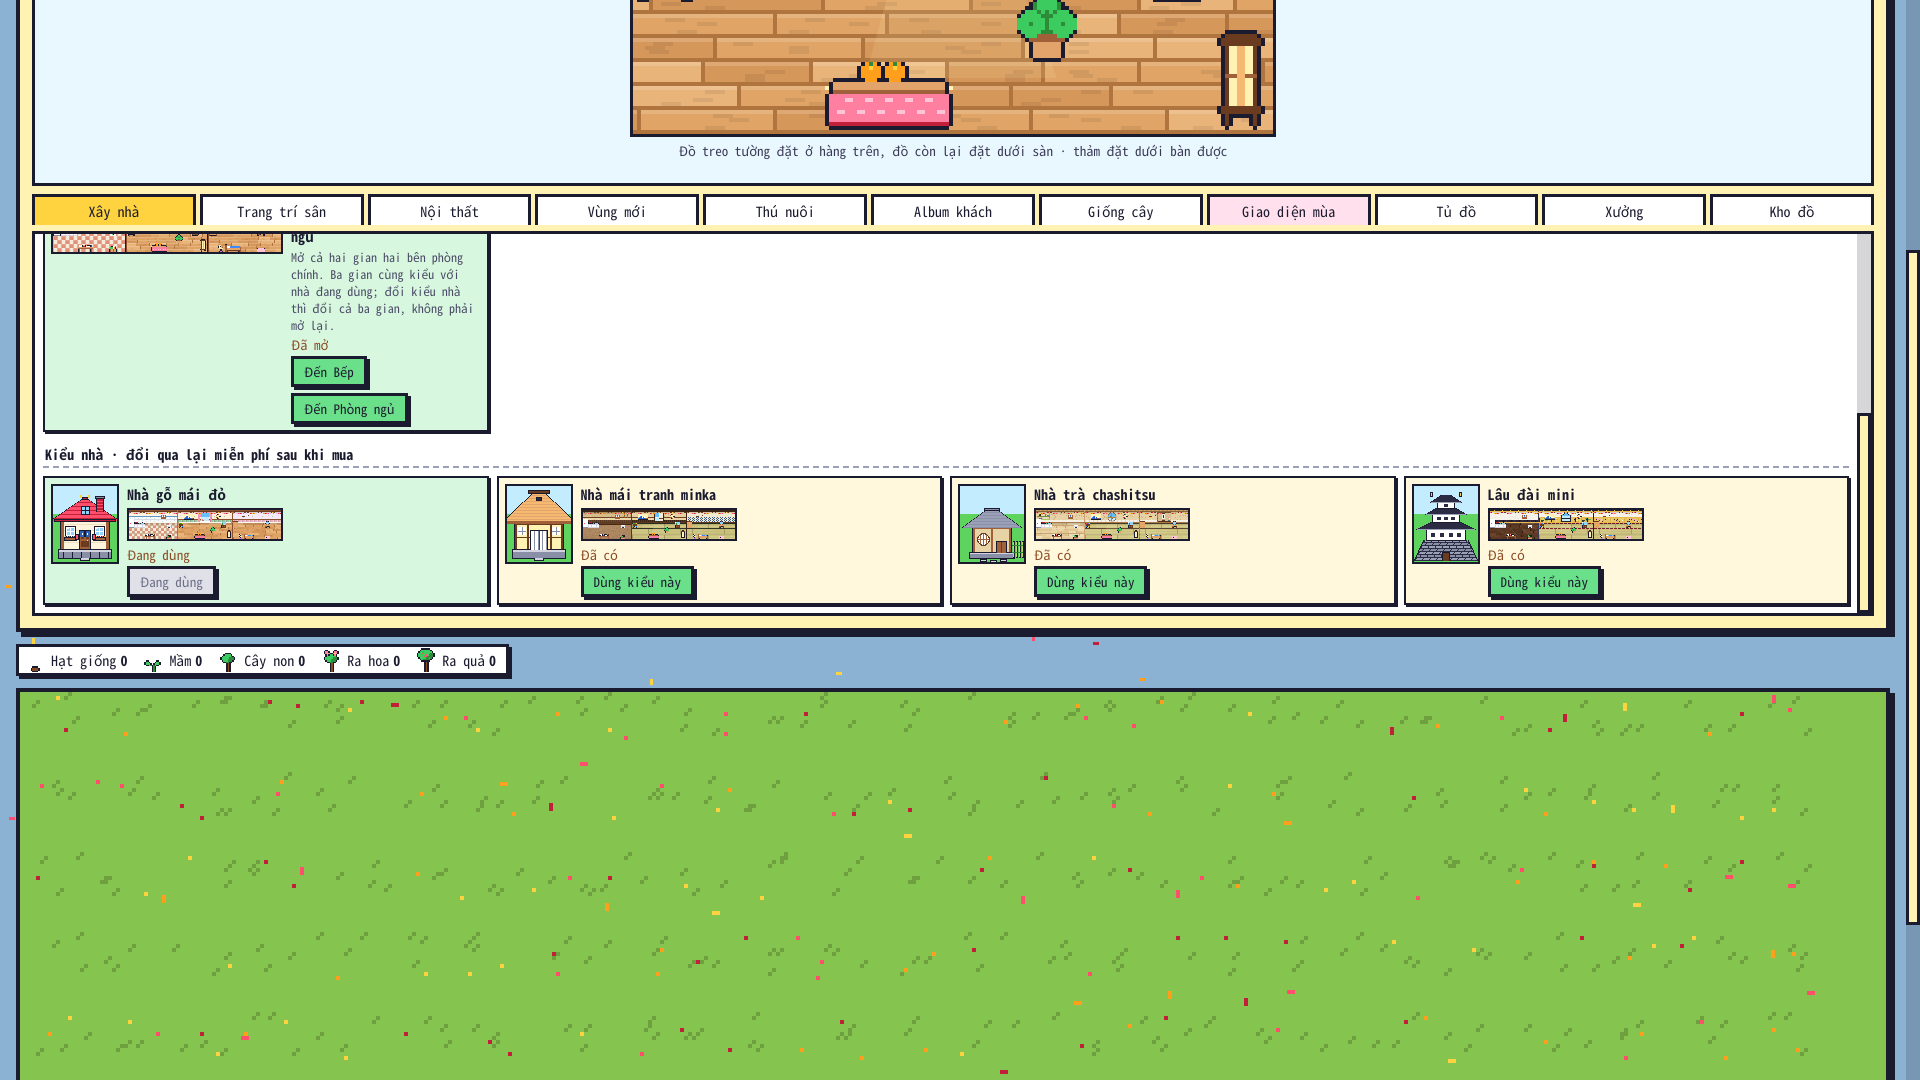
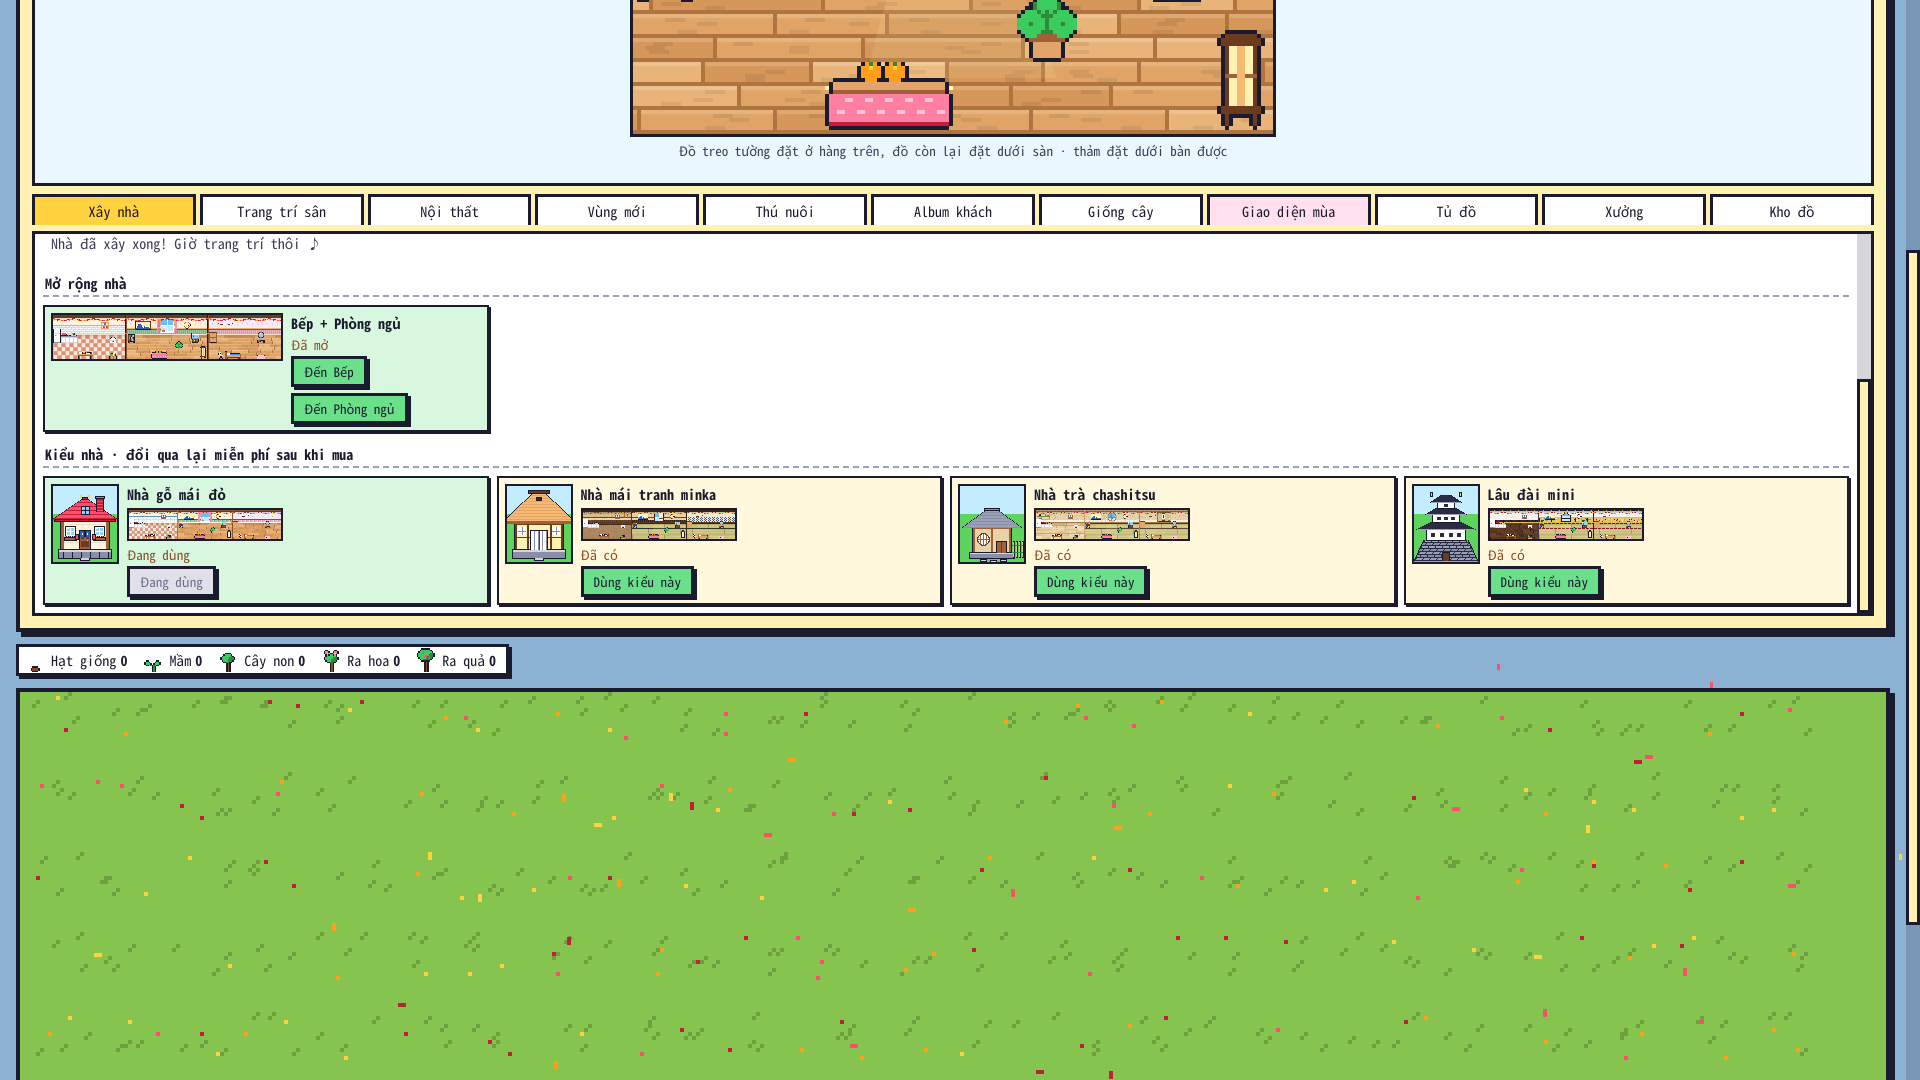
1.25.0: chữ ngắn gọn (thẻ Mở rộng nhà, Nội thất, Dây trang trí); kiểu có sẵn giữ nhóm Màn chính
- Thẻ Mở rộng nhà chỉ còn tên + giá + nút; bỏ " · đặt được ở cả ba gian"; "Dây trang trí: Hiện / Ẩn"
- Sửa: bấm Đầy đủ / Tập trung khi ôn / Dịu mắt làm Cỡ cảnh, Cảnh hiện, Dây trang trí về mặc định
- Test: test_125 + e2e_125 kiểm kiểu có sẵn giữ nhóm Màn chính; shots_125 thêm Cỡ cảnh Lớn, nhà chưa xây xong, mưa, tuyết

Claude-Session: https://claude.ai/code/session_014Ka8eKD6imDnNxZ4ibyqb7

Changed region(s): [[0.0, 0.2139, 0.2812, 0.3361], [0.9688, 0.3667, 1.0, 0.3972]]

diff --git a/tests/anki/e2e_125.js b/tests/anki/e2e_125.js
@@ -76,8 +76,8 @@ kb.open_garden(); result = 1`);
   await click(kx[0], kx[1]); await sleep(900);
   ok(await js('return !document.getElementById("kb-home").hidden && document.querySelector("#kb-home .kb-h-tab.is-on").getAttribute("data-tab") === "build";'), 'bấm Bếp chưa mở → Nhà & Cửa hàng ở tab Xây nhà');
   const card = await js('const c = document.querySelectorAll(".kb-h-nha"); return [c.length, document.querySelectorAll(".kb-h-room").length, c[0] ? c[0].textContent : "", c[0] ? c[0].querySelectorAll("canvas.kb-h-house3").length : 0];');
-  ok(card[0] === 1 && card[1] === 1 && /Bếp \+ Phòng ngủ/.test(card[2]) && /2000 xu/.test(card[2]) && card[3] === 1, 'một thẻ "Mở rộng nhà: Bếp + Phòng ngủ · 2000 xu" có ảnh nhỏ cả nhà');
-  ok(await js('return /một lần mở cả Bếp lẫn Phòng ngủ/.test(document.getElementById("kb-h-list").textContent);'), 'tiêu đề nhóm: "một lần mở cả Bếp lẫn Phòng ngủ"');
+  ok(card[0] === 1 && card[1] === 1 && /Bếp \+ Phòng ngủ/.test(card[2]) && /2000 xu/.test(card[2]) && card[3] === 1, 'một thẻ "Bếp + Phòng ngủ · 2000 xu" có ảnh nhỏ cả nhà');
+  ok(await js('const c = document.querySelector(".kb-h-nha"); return !c.querySelector(".kb-h-desc") && [...document.querySelectorAll("#kb-h-list .kb-h-sec")].some((x) => x.textContent === "Mở rộng nhà");'), 'tiêu đề nhóm "Mở rộng nhà", thẻ không có đoạn giải thích');
   await js('const l = document.getElementById("kb-h-list"), c = document.querySelector(".kb-h-nha"); l.scrollTop = c.offsetTop - l.offsetTop - 8; window.scrollTo(0, 0); return 1;'); await sleep(300);
   await page.shot(SHOTS + '/125_02_the_mo_rong.png');
   await js('const b = document.querySelector(".kb-h-nha .kb-h-buy"); b.click(); b.click(); return 1;'); await sleep(1500);
@@ -140,7 +140,7 @@ else:
   const garl0 = await strip('let s = 0; for (let x = 4; x < 452; x += 3) { s += lum(at(x, 7)); } return s;');
   await js('GardenUI.open(); return 1;'); await sleep(800);
   const row = await js('const r = [...document.querySelectorAll("#kb-ui-stage .kb-ui-radio")].find((x) => /Dây trang trí/.test(x.textContent)); if (!r) return null; const ins = r.querySelectorAll("input"); return [ins.length, ins[0].checked, r.textContent];');
-  ok(row && row[0] === 2 && row[1] && /Hiện/.test(row[2]) && /Ẩn \(dải trên cùng, sân, trong nhà\)/.test(row[2]), 'có dòng "Dây trang trí: Hiện / Ẩn", mặc định Hiện');
+  ok(row && row[0] === 2 && row[1] && /Hiện/.test(row[2]) && /Ẩn/.test(row[2]), 'có dòng "Dây trang trí: Hiện / Ẩn", mặc định Hiện');
   await js('const r = [...document.querySelectorAll("#kb-ui-stage .kb-ui-radio")].find((x) => /Dây trang trí/.test(x.textContent)); r.scrollIntoView({ block: "center" }); return 1;'); await sleep(200);
   await page.shot(SHOTS + '/125_05_nut_day_trang_tri.png');
   await js('const r = [...document.querySelectorAll("#kb-ui-stage .kb-ui-radio")].find((x) => /Dây trang trí/.test(x.textContent)); r.querySelectorAll("input")[1].click(); return 1;'); await sleep(800);
@@ -156,6 +156,13 @@ else:
   dc = await js('return [document.getElementById("kb-theme-band").hidden, document.getElementById("kb-app").classList.contains("kb-ui-deco-off")];');
   ok(dc[0] && dc[1], 'mở lại vườn: vẫn ẩn');
   await js('GardenUI.open(); return 1;'); await sleep(600);
+  const presetKeep = [];
+  for (const name of ['Dịu mắt', 'Đầy đủ']) {
+    await js(`[...document.querySelectorAll("#kb-ui-stage .kb-ui-preset")].find((b) => b.querySelector("b").textContent === ${JSON.stringify(name)}).click(); return 1;`); await sleep(900);
+    presetKeep.push(await py(KB + 'u = kb.config().get("ui", {}); result = [u.get("deco"), u.get("main", {}).get("yard")]'));
+  }
+  ok(presetKeep[0][0] === 'off' && presetKeep[0][1] === 'still' && presetKeep[1][0] === 'off' && presetKeep[1][1] === 'full',
+     'bấm kiểu có sẵn (Dịu mắt → Đầy đủ): kiểu được áp dụng, Dây trang trí vẫn Ẩn ' + JSON.stringify(presetKeep));
   await js('const r = [...document.querySelectorAll("#kb-ui-stage .kb-ui-radio")].find((x) => /Dây trang trí/.test(x.textContent)); r.querySelectorAll("input")[0].click(); return 1;'); await sleep(600);
   await js('document.getElementById("kb-ui-exit").click(); return 1;'); await sleep(1200);
   dc = await js('return [document.getElementById("kb-theme-band").hidden, document.getElementById("kb-app").classList.contains("kb-ui-deco-off")];');

diff --git a/kotoba_batake/web/home.js b/kotoba_batake/web/home.js
@@ -3909,19 +3909,18 @@ var GardenHome = (function () {
         inf.appendChild(btn(money >= nx.price ? "Xây" : "Còn thiếu " + (nx.price - money) + " xu", "kb-h-buy", () => pay("home:build:" + (lv + 1)), money < nx.price));
         card.appendChild(inf);
         list.appendChild(card);
-        if (cat.styles) { list.appendChild(el("div", "kb-h-empty", "Xây xong cả 7 bước sẽ mở thêm các kiểu nhà khác (minka mái tranh, nhà trà, lâu đài mini) và mở rộng nhà thêm Bếp, Phòng ngủ.")); }
+        if (cat.styles) { list.appendChild(el("div", "kb-h-empty", "Xây xong 7 bước: mở thêm kiểu nhà, Bếp và Phòng ngủ.")); }
       } else {
         list.appendChild(el("div", "kb-h-empty", "Nhà đã xây xong! Giờ trang trí thôi ♪"));
         // 1.24: nhà 3 gian
         // 1.25: mở rộng nhà một lần được cả Bếp lẫn Phòng ngủ
-        sec("Mở rộng nhà · một lần mở cả Bếp lẫn Phòng ngủ");
+        sec("Mở rộng nhà");
         {
           const price = cat.nha_price || 2000, opened = (cat.rooms || []).every((rm) => canEnter(rm.id));
           const card = el("div", "kb-h-card kb-h-build kb-h-room kb-h-nha" + (opened ? " kb-h-using" : ""));
           card.appendChild(house3Preview(null, 228));
           const inf = el("div", "kb-h-info");
-          inf.appendChild(el("div", "kb-h-name", "Mở rộng nhà: Bếp + Phòng ngủ"));
-          inf.appendChild(el("div", "kb-h-desc", "Mở cả hai gian hai bên phòng chính. Ba gian cùng kiểu với nhà đang dùng; đổi kiểu nhà thì đổi cả ba gian, không phải mở lại."));
+          inf.appendChild(el("div", "kb-h-name", "Bếp + Phòng ngủ"));
           inf.appendChild(el("div", "kb-h-price", opened ? "Đã mở" : price + " xu"));
           if (opened) {
             const row = el("div", "kb-h-btnrow");
@@ -4125,7 +4124,7 @@ var GardenHome = (function () {
       [["", "Phòng chính"], ["kitchen", "Bếp"], ["bedroom", "Phòng ngủ"]].forEach(([g, name]) => {
         const grp = items.filter((it) => (it.group || "") === g);
         if (!grp.length) { return; }
-        sec(name + (g ? " · đặt được ở cả ba gian" : ""));
+        sec(name);
         grp.forEach((it) => itemCard(list, it, {}));
       });
       return;

diff --git a/tests/anki/shots_125.js b/tests/anki/shots_125.js
@@ -107,6 +107,23 @@ kb._dialog.refresh(); result = 1`);
   // 1366 × 768
   await py(KB + 'kb._dialog.resize(1366, 768); result = 1'); await sleep(2000);
   await clip('125_nha_classic_1366', '#kb-yard');
+  // mưa · tuyết (1366)
+  await js('GardenSky.set("weather", "rain"); return 1;'); await sleep(1500);
+  await clip('125_mua', '#kb-yard');
+  await js('GardenSky.set("weather", "snow"); return 1;'); await sleep(1500);
+  await clip('125_tuyet', '#kb-yard');
+  await js('GardenSky.set("weather", "sunny"); return 1;'); await sleep(600);
+  // Cỡ cảnh Lớn ở 1920 × 1080: đủ chỗ cho mái đầy đủ
+  await py(KB + 'kb.save_config(ui={"scene": "large"}); kb._dialog.resize(1920, 1080); kb._dialog.refresh(); result = 1'); await sleep(2500);
+  await js('const t = document.getElementById("kb-toast"); if (t) t.hidden = true; GardenSky.set("mode", "fixed"); GardenSky.set("fixedHour", 10); GardenSky.set("weather", "sunny"); GardenSeason.preview("momiji"); return 1;'); await sleep(1500);
+  await clip('125_co_canh_lon', '#kb-yard');
+  await py(KB + 'kb.save_config(ui={}); result = 1');
+  // nhà chưa xây xong (bước 5): phòng chính kiểu gốc, hai gian bên "Xây xong nhà để mở rộng"
+  await py(KB + `d = st.load(); d["home"]["house"] = 5; st.save(d)
+col = st._col(); n = col.get_config(kb.core.NHA_KEY, {}); n["rooms"] = []; col.set_config(kb.core.NHA_KEY, n)
+kb._dialog.refresh(); result = st.load()["home"]["rooms"]`); await sleep(2500);
+  await js('const t = document.getElementById("kb-toast"); if (t) t.hidden = true; localStorage.setItem("kb-main-scene", "house"); return 1;'); await sleep(1500);
+  await clip('125_nha_chua_xay_xong', '#kb-yard');
   console.log(JSON.stringify({ photo: fs.existsSync(PHOTO), deco }));
   process.exit(0);
 })().catch((e) => { console.log('LỖI', e); process.exit(1); });

diff --git a/tests/anki/e2e_124.js b/tests/anki/e2e_124.js
@@ -70,7 +70,7 @@ kb.open_garden(); result = 1`);
   const kx = await js('const r = document.getElementById("kb-yard").getBoundingClientRect(); return [r.left + r.width * 0.2, r.top + r.height * 0.6];');
   await click(kx[0], kx[1]); await sleep(900);
   ok(await js('return !document.getElementById("kb-home").hidden && document.querySelector("#kb-home .kb-h-tab.is-on").getAttribute("data-tab") === "build";'), 'mở Nhà & Cửa hàng ở tab Xây nhà');
-  ok(await js('return document.querySelectorAll(".kb-h-room").length === 1 && /Mở rộng nhà: Bếp \\+ Phòng ngủ/.test(document.getElementById("kb-h-list").textContent);'), '1.25: một thẻ "Mở rộng nhà: Bếp + Phòng ngủ"');
+  ok(await js('return document.querySelectorAll(".kb-h-room").length === 1 && /Bếp \\+ Phòng ngủ/.test(document.querySelector(".kb-h-nha").textContent);'), '1.25: một thẻ "Mở rộng nhà · Bếp + Phòng ngủ"');
   await js('const l = document.getElementById("kb-h-list"), c = document.querySelector(".kb-h-nha"); l.scrollTop = c.offsetTop - l.offsetTop - 8; window.scrollTo(0, 0); return 1;'); await sleep(300);
   await page.shot(SHOTS + '/124_02_xay_nha_mo_rong.png');
   await js('const b = document.querySelector(".kb-h-nha .kb-h-buy"); b.click(); b.click(); return 1;'); await sleep(1500);

diff --git a/kotoba_batake/web/ui.js b/kotoba_batake/web/ui.js
@@ -205,7 +205,7 @@ var GardenUI = (function () {
     g = el("div", "kb-ui-globals");
     radios("scene", "Cỡ cảnh", [["normal", "Vừa"], ["large", "Lớn (ruộng cây lùi xuống)"]]);
     radios("start", "Cảnh hiện", [["last", "Cảnh đang chọn"], ["yard", "Luôn về Sân vườn khi mở vườn"]]);
-    radios("deco", "Dây trang trí", [["on", "Hiện"], ["off", "Ẩn (dải trên cùng, sân, trong nhà)"]]);     // 1.25
+    radios("deco", "Dây trang trí", [["on", "Hiện"], ["off", "Ẩn"]]);     // 1.25
     st.appendChild(g);
     st.appendChild(el("div", "kb-ui-h", "Bảng ôn thẻ"));
     g = el("div", "kb-ui-globals");

diff --git a/tests/core/test_125.py b/tests/core/test_125.py
@@ -133,7 +133,11 @@ print("== cài đặt giao diện: Dây trang trí")
 ok(more_core.UI_GLOBAL.get("deco") == ("on", "off") and more_core.ui_default()["deco"] == "on", "khoá chung mới deco: on / off, mặc định on (Hiện)")
 ok(more_core.clean_ui({"deco": "off"})["deco"] == "off" and more_core.clean_ui({"deco": "maybe"})["deco"] == "on"
    and more_core.clean_ui({"scene": "large"})["deco"] == "on", "clean_ui giữ off, giá trị lạ / thiếu → on")
-ok(all(more_core.ui_preset(p)["deco"] == "on" for p in more_core.UI_PRESETS), "các kiểu có sẵn không đụng tới dây trang trí")
+ok(all(more_core.ui_preset(p)["deco"] == "on" for p in more_core.UI_PRESETS), "các kiểu có sẵn: mặc định dây trang trí Hiện")
+cur = {"deco": "off", "scene": "large", "start": "yard", "card": "tall", "review": {"yard": "hide"}}
+ok(all((lambda u: u["deco"] == "off" and u["scene"] == "large" and u["start"] == "yard")(more_core.ui_preset(p, cur)) for p in more_core.UI_PRESETS)
+   and more_core.ui_preset("full", cur)["review"]["yard"] == "full" and more_core.ui_preset("calm", cur)["main"]["yard"] == "still",
+   "bấm kiểu có sẵn giữ nhóm Màn chính (Cỡ cảnh, Cảnh hiện, Dây trang trí), các mục của kiểu vẫn áp dụng")
 raw = more_core.clean_ui({"deco": "off", "card": "tall", "main": {"yard": "hide"}})
 ok(raw["card"] == "tall" and raw["main"]["yard"] == "hide" and raw["deco"] == "off", "khoá mới không làm mất các khoá cũ")
 

diff --git a/kotoba_batake/more_core.py b/kotoba_batake/more_core.py
@@ -657,7 +657,10 @@ def clean_ui(raw: Any) -> dict[str, Any]:
     return out
 
 
-def ui_preset(name: str) -> dict[str, Any]:
+UI_KEEP_ON_PRESET = ("scene", "start", "deco")    # 1.25: nhóm "Màn chính" không thuộc kiểu có sẵn → bấm kiểu không đổi
+
+
+def ui_preset(name: str, current: Any = None) -> dict[str, Any]:
     if name not in UI_PRESETS:
         raise MoreError("Không có kiểu giao diện này.")
     out = ui_default()
@@ -666,4 +669,8 @@ def ui_preset(name: str) -> dict[str, Any]:
             out[k].update(v)
         else:
             out[k] = v
+    if current is not None:
+        cur = clean_ui(current)
+        for k in UI_KEEP_ON_PRESET:
+            out[k] = cur[k]
     return out

diff --git a/kotoba_batake/__init__.py b/kotoba_batake/__init__.py
@@ -2936,7 +2936,7 @@ class GardenDialog(QDialog):
             if action == "set":
                 ui = more_core.clean_ui(json.loads(arg))
             elif action == "preset":
-                ui = more_core.ui_preset(arg)
+                ui = more_core.ui_preset(arg, config().get("ui"))     # 1.25: giữ nhóm Màn chính
             else:
                 return
         except (ValueError, more_core.MoreError) as err:

diff --git a/PHAT_TRIEN.md b/PHAT_TRIEN.md
@@ -304,6 +304,7 @@ Giờ thật / giờ game / cố định, 6 buổi trong ngày, thời tiết đ
 - **Ảnh chụp**: hình nền 1920 × 1080 của "Trong nhà" = nhà có mái đầy đủ + móng đá giữa vườn (thay nền gỗ tối); cỡ thường / lớn vẫn là riêng cả nhà 456 × 88. Tab Xây nhà: thẻ mỗi kiểu nhà có thêm **ảnh nhỏ ba gian bên trong** của kiểu đó (`house3Preview`).
 - **⚙ → Màn chính → "Dây trang trí: Hiện / Ẩn (dải trên cùng, sân, trong nhà)"** (`ui.deco`, khoá chung mới trong `more_core.UI_GLOBAL`, mặc định on, lưu `config.json` từng máy): Ẩn thì `season.js` không vẽ dải trên cùng cửa sổ (`drawBand`), dây ngoài sân (`sceneGarland`) và dây trong nhà (`room`); `#kb-app.kb-ui-deco-off` bỏ chỗ trống 30 px của dải. Màu trang / trời của giao diện mùa, hạt rơi, đồ theo mùa, nhạc giữ nguyên.
 - **Không đổi**: gian bên 9 × 4 ô, không cửa sổ; 12 món của 1.24; khoá `kotoba_batake_nha`; bảo dưỡng nhà không tính gian bên.
+- **Soát lần cuối (07/11, người dùng: "không cần giải thích dài dòng như vậy")**: thẻ Mở rộng nhà chỉ còn tên "Bếp + Phòng ngủ", giá, nút (bỏ đoạn giải thích), tiêu đề nhóm "Mở rộng nhà"; tab Nội thất bỏ " · đặt được ở cả ba gian"; dòng chưa xây xong "Xây xong 7 bước: mở thêm kiểu nhà, Bếp và Phòng ngủ."; ⚙ "Dây trang trí: Hiện / Ẩn". Sửa lỗi: bấm kiểu có sẵn (Đầy đủ / Tập trung khi ôn / Dịu mắt) làm nhóm Màn chính (Cỡ cảnh, Cảnh hiện, Dây trang trí) về mặc định → `more_core.ui_preset(name, current)` giữ `UI_KEEP_ON_PRESET` (`scene`, `start`, `deco`).
 - Test: `tests/core/test_125.py` (mở một lần, thiếu xu, bấm đúp, lệnh cũ kèm id, dữ liệu 1.24 một gian → hai gian, gian lạ của bản sau, đổi 3 kiểu nhà không mất gian / đồ, `clean_ui` khoá `deco`; **mã 1.24 thật** từ git `bc66f66` hoặc `OLD124=`), `tests/anki/e2e_125.js` (Anki thật, 29 kiểm tra: nhà giữa dải + vườn hai bên, hai gian bên tối như nhau, một thẻ Mở rộng + bấm đúp, hai gian sáng, 4 kiểu × 3 gian đổi theo kiểu, bảng Nhà ở Bếp đổi nền, 5 ảnh nhỏ, hình nền có vườn kín khung, nút Dây trang trí (lưu cấu hình, mở lại vẫn ẩn, bật lại), ban đêm, 1366 / 1024 / 720 px). `test_124.py`, `e2e_124.js`, `audit_full.js` đổi phần mở rộng theo luật mới. Ảnh: `tests/anki/shots_125.js`.
 - Kết quả: `run_all.sh` TẤT CẢ OK; Anki 26.9.4 mọi kịch bản đạt (`e2e_125` 29/29, `audit_full` 181/181, `audit_edge` 58/58…); 23.10.1: `e2e_125` 29/29, `e2e_124` 23/23, `e2e_tour` / `e2e_1226` / `e2e_1228` / `e2e_123` đạt. Báo cáo + ảnh trước / sau: `docs/kiem_thu/1.25/BAO_CAO.md`.
 

diff --git a/docs/kiem_thu/1.25/BAO_CAO.md b/docs/kiem_thu/1.25/BAO_CAO.md
@@ -38,7 +38,7 @@ Bản 1.25.0: **nhà 3 gian làm lại** sau khi người dùng xem 1.24 trên m
 
 ![Hình nền 1920 × 1080 nguyên nhà](125_hinh_nen_nha.png)
 
-Thêm: [cửa sổ 1366 × 768](125_nha_classic_1366.png) · [tab Xây nhà: thẻ Mở rộng nhà](125_the_mo_rong.png) · [thẻ kiểu nhà có ảnh ba gian](125_kieu_nha.png) · [bảng Nhà · Bếp](125_bang_bep.png) · [⚙ → Màn chính → Dây trang trí](125_nut_day_trang_tri.png) · [đã ẩn dây trang trí](125_an_day_trang_tri.png).
+Thêm: [Cỡ cảnh Lớn: mái đầy đủ](125_co_canh_lon.png) · [nhà chưa xây xong 7 bước](125_nha_chua_xay_xong.png) · [mưa](125_mua.png) · [tuyết](125_tuyet.png) · [cửa sổ 1366 × 768](125_nha_classic_1366.png) · [tab Xây nhà: thẻ Mở rộng nhà](125_the_mo_rong.png) · [thẻ kiểu nhà có ảnh ba gian](125_kieu_nha.png) · [bảng Nhà · Bếp](125_bang_bep.png) · [⚙ → Màn chính → Dây trang trí](125_nut_day_trang_tri.png) · [đã ẩn dây trang trí](125_an_day_trang_tri.png).
 
 ## 4. Đồng bộ với bản cũ (mã 1.24 thật, `test_125.py`)
 
